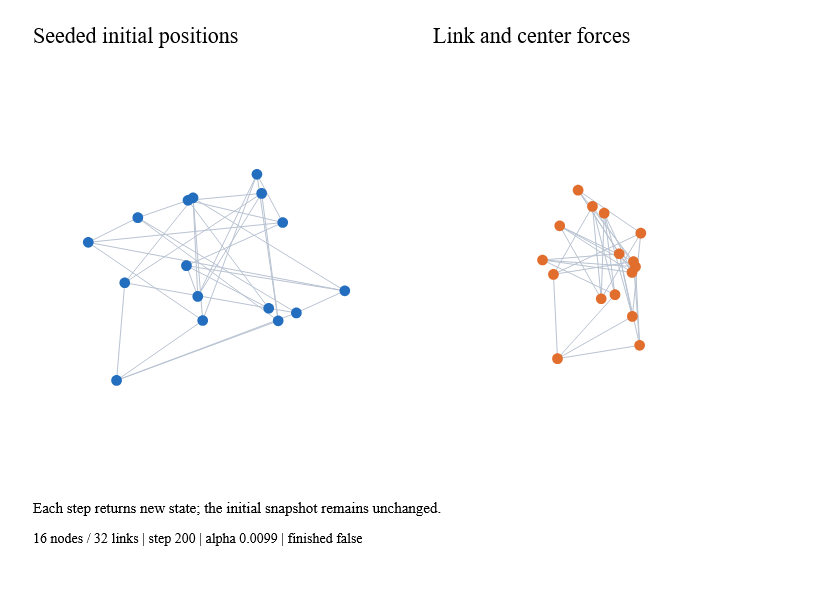
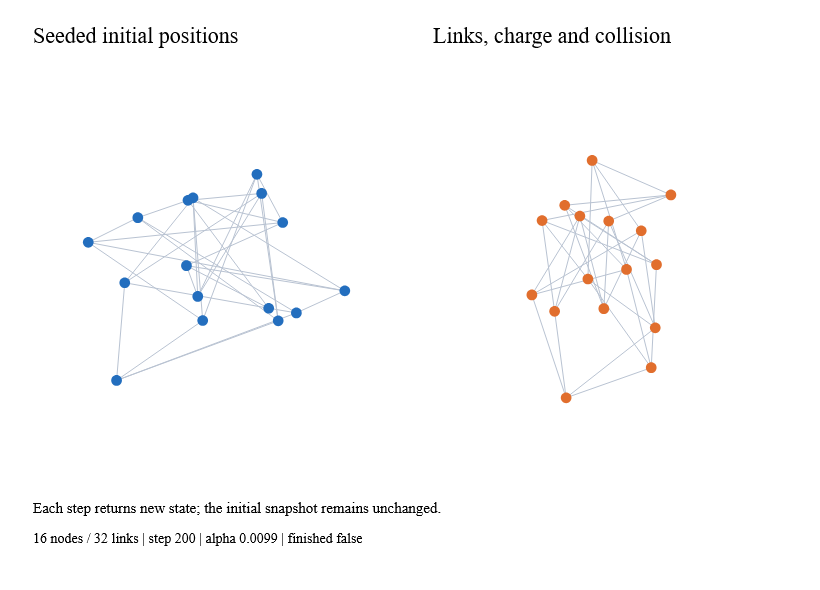
feat: add cancellable spatial force kernels (#23)

Changed region(s): [[0.6402, 0.2441, 0.8232, 0.7017], [0.5793, 0.0305, 0.8232, 0.0915], [0.7927, 0.3051, 0.8232, 0.3356]]

diff --git a/docs/force.md b/docs/force.md
@@ -15,7 +15,8 @@ order does not change initialization. No global random state is consumed.
 
 `Force.step count state` advances unit-time ticks and returns new state, leaving
 previous snapshots intact. Each tick cools alpha, adds center/axis/radial/link
-velocity contributions, applies velocity decay, and advances positions. Center
+velocity contributions, adds optional many-body and collision forces, applies
+velocity decay, and advances positions. Center
 force moves the collective mean toward the configured center. Link corrections
 are divided inversely by endpoint mass. Pins restore their fixed position and
 zero velocity after forces. Coincident radial/link directions use deterministic
@@ -36,7 +37,8 @@ new IDs and removes exited IDs. Pins in the replacement graph are authoritative;
 initial-position fields do not teleport surviving nodes.
 
 `stepWithCancellation token count state` checks cancellation before stepping,
-before every tick and every 64 nodes/edges. Cancellation discards private work
+before every tick, every 64 nodes/edges/pairs, and each visited spatial cell.
+Quadtree construction also checks cancellation during input capture and partitioning. Cancellation discards private work
 without modifying input. Cancellation latency is cooperative, not real-time.
 Same seed/config/input reproduces results; cross-platform bitwise transcendental
 math identity is not promised.
@@ -59,8 +61,38 @@ python tools/document-snapshots.py
 
 The local 1,000-node/2,000-edge benchmark takes about 0.42 ms for ten steps,
 allocating 1.46 MB. Its p95 time/allocation gates are 8 ms / 3 MB across normal
-and Traced CI. This excludes rendering and the upcoming collision/many-body
+and Traced CI. This baseline case excludes rendering and collision/many-body
 kernels; it is not a complete interactive-frame claim.
 
-This is task 7 G1. Collision, Barnes–Hut many-body forces and the bounded worker/
-drag network recipes follow in G2/G3. They are not claimed by this batch.
+## Spatial forces
+
+Set `ManyBody=Some(ManyBodyConfig.create -20.)` for repulsion; positive strength
+attracts. Source mass weights acceleration. `Theta=0.` uses exact pairwise
+evaluation; positive theta enables Barnes–Hut aggregate traversal. The default
+is 0.8. A fixed 400-site distribution at theta 0.5 is tested against exact
+forces with a relative RMS velocity error below 3%; this is a fixture bound,
+not a universal error guarantee. Approximation need not conserve exact momentum.
+
+`MinDistance` softens the force near zero; coincident pairs use deterministic
+seeded directions. `MaxDistance` is an inclusive cutoff. Cells crossing the
+cutoff are descended instead of incorrectly including distant sources.
+Strength and theta must be finite, theta nonnegative, and minimum distance
+positive. Maximum distance may be positive infinity.
+
+Set `Collision=Some(CollisionConfig.create 0.7)` for soft circle separation.
+Each iteration builds an index of predicted positions, then accumulates overlap
+corrections using node radii and inverse-mass shares. A pinned node gives the
+free node the full correction. Strength lies in [0,1]; iterations must be
+positive. Collision does not scale with alpha, but final velocity decay still
+applies. Crowded configurations may retain overlap: this is an iterative force,
+not a hard packing constraint. Both kernels are disabled by default.
+
+On this machine the combined 1,000-node/2,000-edge step takes 4.46 ms median,
+11.95 ms p95 and 1.69 MB allocation. The gate is 25 ms p95 / 8 MB. At 400 nodes,
+exact evaluation takes 1.47 ms versus 0.93 ms for theta 0.5, at the cost of
+51.6 KB versus 339.6 KB allocation. Quadtree traversal has quadratic worst cases
+for coincident or highly clustered points; exact evaluation is always quadratic.
+These are solver measurements, excluding host rendering and publication.
+
+The native snapshot above includes link, charge and collision forces. Task 7 G3
+still owns bounded worker publication, interactive dragging and network recipes.

diff --git a/docs/d3-coverage.md b/docs/d3-coverage.md
@@ -67,8 +67,8 @@ The table above records baseline and planned ownership, not exhaustive parity.
 See [release validation](release-alpha.2.md) for tested scope and deliberate
 policies for alpha.2. The current hierarchy milestone adds task 5 construction,
 layouts and recipes, with [native snapshots and explicit limitations](hierarchy-charts.md).
-Task 6 now includes robust planar predicates/polygon operations and an immutable quadtree with aggregate traversal; see [planar contracts](planar.md) and [quadtree contracts](quadtree.md). Task 6 also adds [Delaunay triangulation, clipped Voronoi and native picking](spatial.md), with explicit extreme-input fallback and degeneracy policies. Task 7 now includes [deterministic immutable force state and basic forces](force.md); collision/many-body kernels and worker/drag network recipes remain open. Tasks 8–11 remain open. Full locale/time parsers, all D3 palette tables,
-geographic pipelines, spatial triangulation, forces, contours and flow layouts
+Task 6 now includes robust planar predicates/polygon operations and an immutable quadtree with aggregate traversal; see [planar contracts](planar.md) and [quadtree contracts](quadtree.md). Task 6 also adds [Delaunay triangulation, clipped Voronoi and native picking](spatial.md), with explicit extreme-input fallback and degeneracy policies. Task 7 now includes [deterministic immutable force state, collision and Barnes–Hut forces](force.md); worker/drag network recipes remain open. Tasks 8–11 remain open. Full locale/time parsers, all D3 palette tables,
+geographic pipelines, complete network recipes, contours and flow layouts
 are not claimed by this milestone.
 
 Reference fixtures: `tests/fixtures/manifest.json`, exact npm lockfile and copied licenses in `tools/reference-fixtures/`. Generation is development-only. Numeric tolerance and coordinate conventions travel with the fixtures. Native ownership, topology errors and missing-data behavior are tested as D5 contracts rather than copied blindly from JavaScript.
